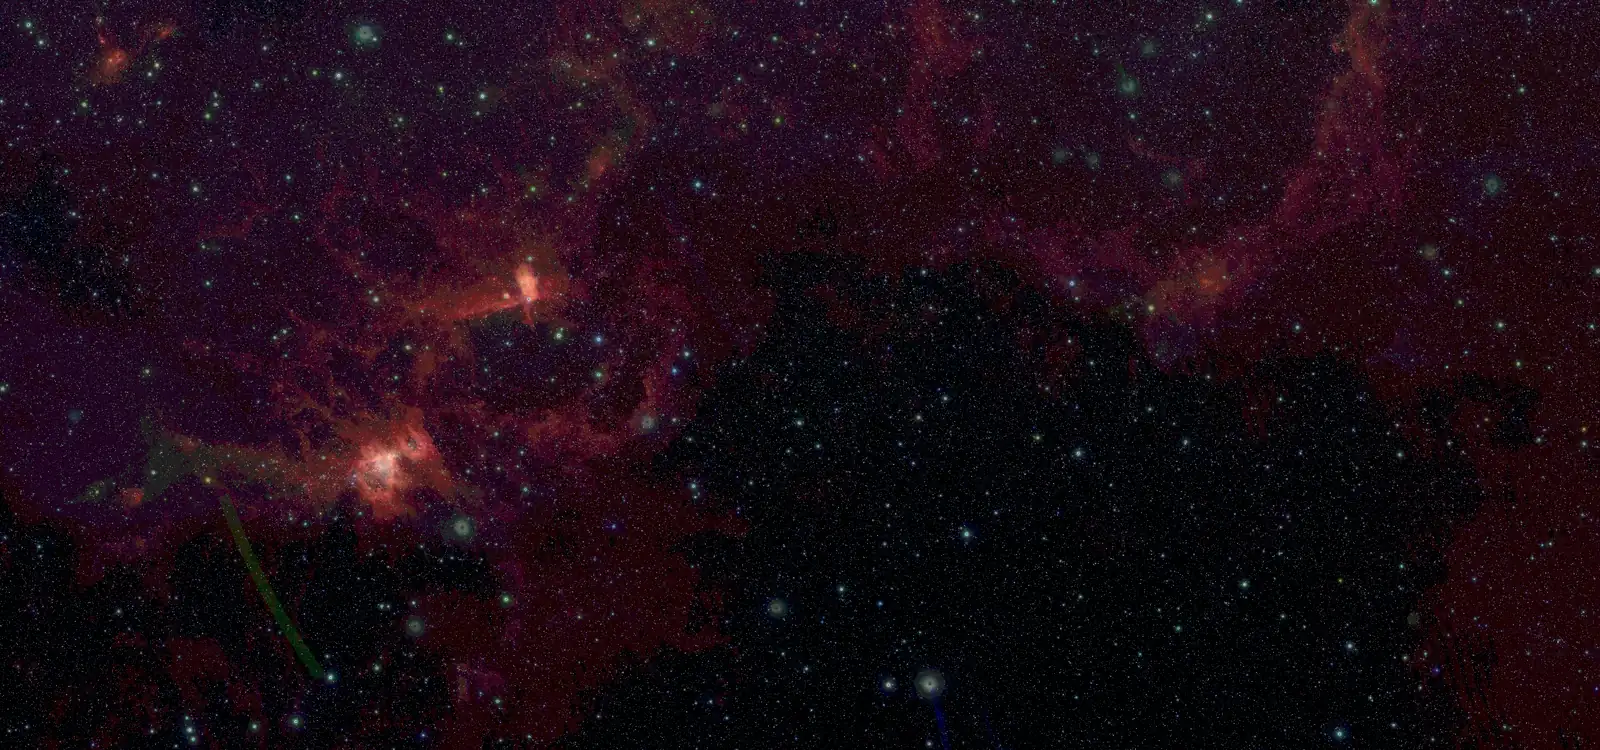
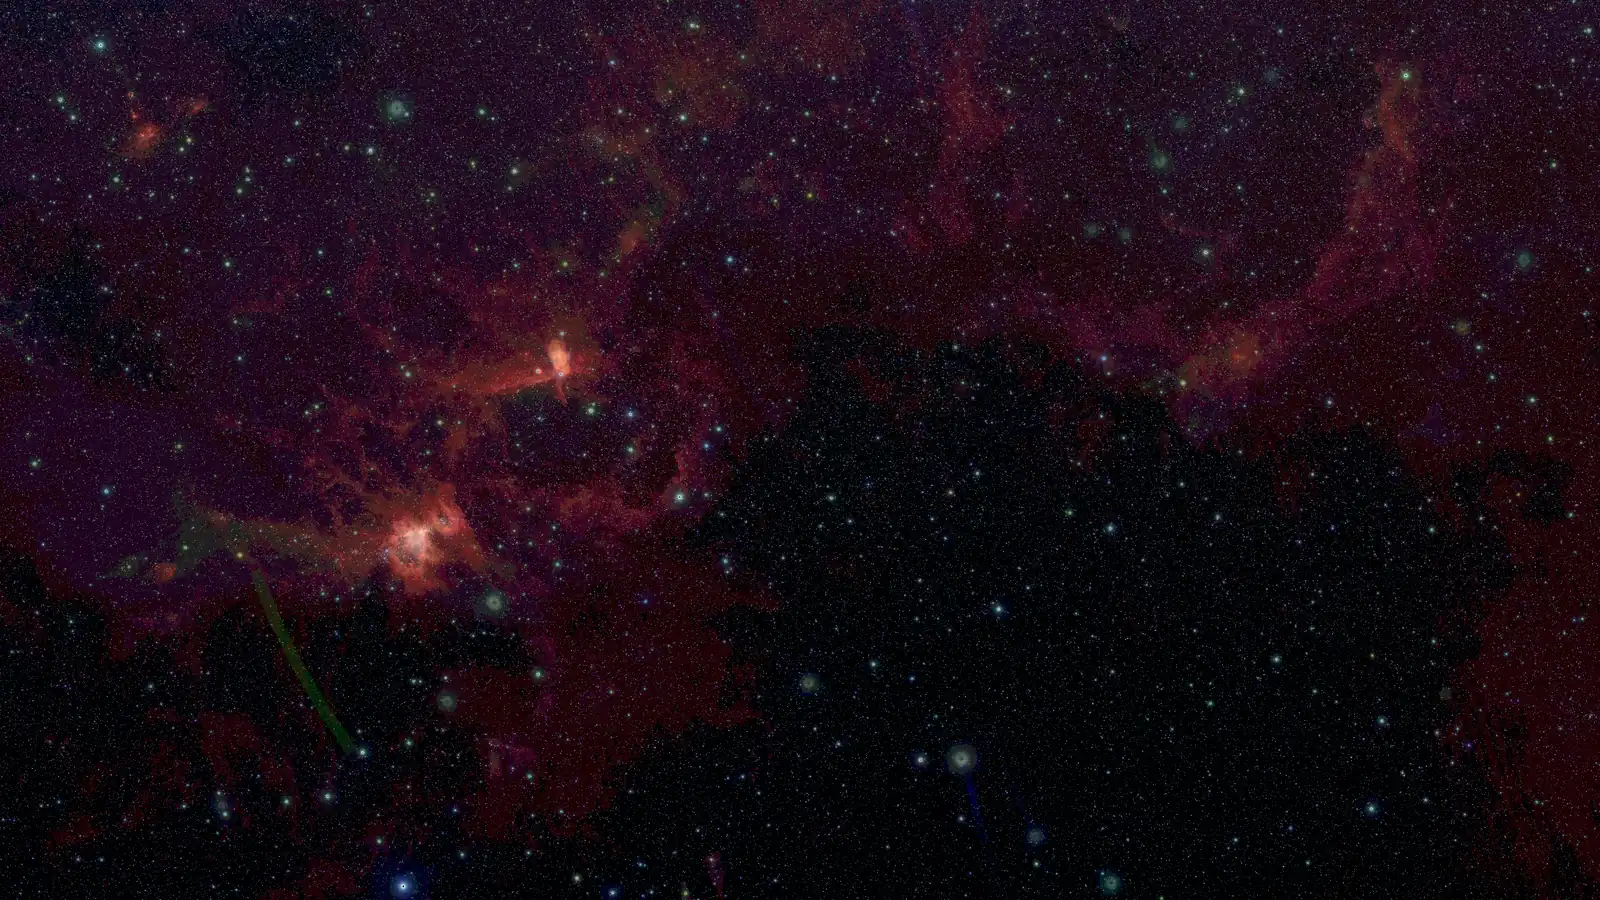
First page: the real sky behind the whole page, changing as it is read
The photograph was behind the first screen only; below it the page was
black. It is now one layer fixed behind the page, and every part lays a
veil of the page colour over it (--veil, 72 %), so the words keep their
contrast. The sky changes with the part being read: the Milky Way, Rho
Ophiuchi from the tour on, Orion from "Open source" on; the two later
pictures are fetched when their part is near. The last screen draws the
veil back instead of carrying a picture of its own.

Rho Ophiuchi and Orion are cut again at 1600 x 900 for this. The team list
gets the workplaces of two more members.

diff --git a/web/landing.css b/web/landing.css
@@ -11,6 +11,7 @@
 @font-face{font-family:"Geist Mono";src:url(/static/fonts/GeistMono.woff2) format("woff2");font-weight:400 500;font-style:normal;font-display:swap}
 
 :root{
+  --veil:72%;
   --paper:oklch(9% 0.012 290); --paper-2:oklch(12.5% 0.014 290); --paper-3:oklch(6.5% 0.010 290); --lift:oklch(16% 0.017 290);
   --ink:oklch(94% 0.010 80); --ink-2:oklch(84% 0.011 80); --muted:oklch(68% 0.012 80); --muted-2:oklch(50% 0.010 80);
   --rule:oklch(25% 0.016 290); --rule-2:oklch(16% 0.013 290);
@@ -66,11 +67,15 @@ a:hover>.arr,.card.link:hover .arr{transform:translateX(4px)}
 
 /* ------------------------------------------------------------------ hero */
 .hero{position:relative;min-height:100vh;min-height:100svh;display:flex;flex-direction:column;overflow:hidden;border-bottom:1px solid var(--rule)}
-/* The sky behind the first screen is a photograph: the Milky Way cut from the SPHEREx all-sky map
-   (scripts/landing_sky.py). The veil over it keeps the left half, where the words are, at the contrast
-   of the rest of the page and lets the galaxy show on the right and along the bottom. */
-.heroimg{position:absolute;inset:0;overflow:hidden}
-.heroimg img{width:100%;height:100%;object-fit:cover;object-position:70% 62%;transform:translate3d(calc(var(--px,0) * -16px),calc(var(--py,0) * -10px),0) scale(1.06);transition:transform 1.2s var(--out);animation:skyin 1.6s var(--out) both}
+/* The sky behind the page is a photograph, and it stays where it is while the page moves over it: the
+   Milky Way, then Rho Ophiuchi from the tour on, then Orion from "Open source" on (landing.js changes
+   them), all cut from the SPHEREx all-sky map (scripts/landing_sky.py). Each part of the page lays a
+   veil of the page colour over it (--veil); the first and the last screen let it through. */
+.pagesky{position:fixed;inset:0 0 auto;height:100vh;height:100lvh;z-index:-1;overflow:hidden;pointer-events:none;animation:skyin 1.6s var(--out) both}
+.pagesky img{position:absolute;inset:0;width:100%;height:100%;object-fit:cover;object-position:70% 62%;opacity:0;transform:translate3d(calc(var(--px,0) * -16px),calc(var(--py,0) * -10px),0) scale(1.06);transition:transform 1.2s var(--out),opacity 1.8s ease}
+.pagesky img.on{opacity:1}
+.pagesky .rho{object-position:58% 45%}
+.pagesky .orion{object-position:30% 55%}
 @keyframes skyin{from{opacity:0}to{opacity:1}}
 .glow{position:absolute;inset:0;pointer-events:none;background:
   linear-gradient(90deg,color-mix(in oklab,var(--paper) 70%,transparent) 0%,color-mix(in oklab,var(--paper) 52%,transparent) 34%,color-mix(in oklab,var(--paper) 12%,transparent) 64%,transparent 100%),
@@ -155,7 +160,9 @@ h1{margin-top:22px;font-size:clamp(46px,min(7.3vw,12.5vh),132px);line-height:.93
 /* ------------------------------------------------------------------ sections */
 section{position:relative}
 .found,.tour,.how,.api,.open,.team{padding-block:clamp(84px,11vw,168px)}
-.tour,.api,.team{background:linear-gradient(180deg,var(--paper-3),var(--paper) 60%);border-block:1px solid var(--rule)}
+.numbers,.film,.found,.how,.open,.foot{background:color-mix(in oklab,var(--paper) var(--veil),transparent)}
+.tour,.api,.team{background:linear-gradient(180deg,color-mix(in oklab,var(--paper-3) calc(var(--veil) + 6%),transparent),color-mix(in oklab,var(--paper) var(--veil),transparent) 60%);border-block:1px solid var(--rule)}
+.last{background:linear-gradient(180deg,color-mix(in oklab,var(--paper) var(--veil),transparent),color-mix(in oklab,var(--paper) 12%,transparent) 30%,color-mix(in oklab,var(--paper) 12%,transparent) 72%,color-mix(in oklab,var(--paper) var(--veil),transparent))}
 .sechead{max-width:900px}
 .kicker{display:flex;align-items:center;gap:12px;font:500 12.5px/1 var(--measure);letter-spacing:.09em;text-transform:uppercase;color:var(--muted)}
 .kicker span{color:var(--violet)}
@@ -333,7 +340,6 @@ input[type=range]::-moz-range-thumb{width:11px;height:21px;background:var(--gold
 
 /* ------------------------------------------------------------------ last call */
 .last{padding-block:clamp(110px,16vw,230px);text-align:center;overflow:hidden}
-.lastbg{position:absolute;inset:0;width:100%;height:100%;object-fit:cover;object-position:30% 55%;opacity:.9;-webkit-mask-image:linear-gradient(180deg,transparent,#000 22%,#000 74%,transparent);mask-image:linear-gradient(180deg,transparent,#000 22%,#000 74%,transparent)}
 .last .wrap{position:relative}
 .last h2{margin:0;font-size:clamp(44px,7.6vw,118px);letter-spacing:-.05em;line-height:.95;text-shadow:0 0 60px var(--paper)}
 .last p{margin-top:22px;font-size:clamp(17px,1.5vw,21px);color:var(--ink-2);text-shadow:0 0 20px var(--paper),0 0 40px var(--paper)}
@@ -379,7 +385,7 @@ input[type=range]::-moz-range-thumb{width:11px;height:21px;background:var(--gold
   .num:nth-child(5){grid-column:1/-1}
   .feature,.feature.flip,.apigrid,.teamgrid,.teamtop,.filmgrid{grid-template-columns:minmax(0,1fr)}
   /* the words and the picture share the column: the veil is even, the galaxy sits low */
-  .heroimg img{object-position:60% 100%}
+  .pagesky picture img{object-position:60% 100%}
   .glow{background:linear-gradient(180deg,color-mix(in oklab,var(--paper) 66%,transparent) 0%,color-mix(in oklab,var(--paper) 52%,transparent) 40%,color-mix(in oklab,var(--paper) 14%,transparent) 76%,color-mix(in oklab,var(--paper) 60%,transparent) 100%)}
   .skycredit{align-self:flex-start;max-width:34em}
   .feature.flip .shot{order:0}

diff --git a/web/landing.html b/web/landing.html
@@ -23,11 +23,19 @@
 <link rel="apple-touch-icon" href="/static/apple-touch-icon.png?v=72">
 <link rel="preload" href="/static/fonts/HankenGrotesk.woff2" as="font" type="font/woff2" crossorigin>
 <link rel="preload" href="/static/fonts/GeistMono.woff2" as="font" type="font/woff2" crossorigin>
-<link rel="stylesheet" href="/static/landing.css?v=4">
-<script src="/static/landing.js?v=4" defer></script>
+<link rel="stylesheet" href="/static/landing.css?v=5">
+<script src="/static/landing.js?v=5" defer></script>
 </head>
 <body>
 <a class="skip" href="#found">Skip to what it found</a>
+<div class="pagesky" id="pagesky" aria-hidden="true">
+  <picture>
+    <source media="(max-width: 700px)" srcset="/static/landing/sky-milky-way-m.webp" width="800" height="1440">
+    <img class="on" src="/static/landing/sky-milky-way.webp" width="2000" height="1125" alt="" fetchpriority="high" decoding="async">
+  </picture>
+  <img class="rho" data-src="/static/landing/sky-rho-oph.webp" data-from="tour" width="1600" height="900" alt="" decoding="async">
+  <img class="orion" data-src="/static/landing/sky-orion.webp" data-from="open" width="1600" height="900" alt="" decoding="async">
+</div>
 <div class="progress" aria-hidden="true"><i id="progress"></i></div>
 
 <header class="nav" id="nav">
@@ -50,10 +58,6 @@
 <main>
 <!-- ================================================================== hero -->
 <section class="hero" id="top">
-  <picture class="heroimg" aria-hidden="true">
-    <source media="(max-width: 700px)" srcset="/static/landing/sky-milky-way-m.webp" width="800" height="1440">
-    <img id="heroimg" src="/static/landing/sky-milky-way.webp" width="2000" height="1125" alt="" fetchpriority="high" decoding="async">
-  </picture>
   <div class="glow" aria-hidden="true"></div>
   <div class="wrap herogrid">
     <div class="herotext">
@@ -95,7 +99,7 @@
       </figcaption>
     </figure>
   </div>
-  <p class="skycredit mono">Behind this screen: the Milky Way as SPHEREx sees it, at 1.25, 2.19 and 3.29 µm <b>·</b> NASA/JPL-Caltech/IPAC</p>
+  <p class="skycredit mono">Behind this page: the Milky Way as SPHEREx sees it, at 1.25, 2.19 and 3.29 µm <b>·</b> NASA/JPL-Caltech/IPAC</p>
 
   <!-- what the blind search has reported so far: all of them known bodies -->
   <div class="ticker" aria-label="Moving objects the blind search has found, each a known body">
@@ -140,7 +144,7 @@
          the player in its place. Without the script the link opens the video on YouTube. -->
     <div class="player reveal" id="player">
       <a class="poster" id="poster" href="https://www.youtube.com/watch?v=Nhfgcw2geB4" target="_blank" rel="noopener" data-video="Nhfgcw2geB4" aria-label="Play the video: Vanilla Sphere, a tool for SPHEREx data exploration">
-        <img src="/static/landing/sky-rho-oph.webp" width="1120" height="630" loading="lazy" alt="">
+        <img src="/static/landing/sky-rho-oph.webp" width="1600" height="900" loading="lazy" alt="">
         <span class="playbtn"><svg class="tri" viewBox="0 0 16 16" aria-hidden="true"><path d="M4 2.500 13 8l-9 5.500z"/></svg></span>
         <span class="postertitle mono"><b>VANILLA SPHERE</b> A TOOL FOR SPHEREx DATA EXPLORATION</span>
         <span class="postersite mono">YouTube</span>
@@ -403,8 +407,8 @@
       <p>Team Vanilla Sphere, at the Hanoi local event of the 2026 NASA Space Apps Challenge.</p>
     </header>
     <ol class="people reveal">
-      <li><span class="mono">01</span><b>Kim Duc Minh</b><i>Lead, architecture</i></li>
-      <li><span class="mono">02</span><b>Van Thanh Duy</b><i>Data pipeline, testing</i></li>
+      <li><span class="mono">01</span><b>Kim Duc Minh</b><i>Lead, architecture</i><small>VinSmart Future</small></li>
+      <li><span class="mono">02</span><b>Van Thanh Duy</b><i>Data pipeline, testing</i><small>Military Commercial Joint Stock Bank (MB)</small></li>
       <li><span class="mono">03</span><b>Doan Duy Thanh</b><i>Data analysis</i><small>University of Science and Technology of Hanoi (USTH)</small></li>
       <li><span class="mono">04</span><b>Nguyen Ha Trang</b><i>Science</i><small>Hanoi University of Science and Technology (HUST)</small></li>
       <li><span class="mono">05</span><b>Pham Minh Tuan</b><i>Science</i></li>
@@ -434,7 +438,6 @@
 
 <!-- ================================================================== last call -->
 <section class="last">
-  <img class="lastbg" src="/static/landing/sky-orion.webp" width="1600" height="750" loading="lazy" alt="" aria-hidden="true">
   <div class="wrap">
     <h2 class="reveal">Pick a spot in the sky<span class="blinkmark" aria-hidden="true"><i></i><i></i></span></h2>
     <p class="reveal">The whole infrared sky, 102 colours deep, a click away.</p>

diff --git a/web/landing.js b/web/landing.js
@@ -59,19 +59,45 @@ if ("IntersectionObserver" in window) {
   for (const el of document.querySelectorAll(".reveal")) seen.observe(el);
 } else for (const el of document.querySelectorAll(".reveal")) el.classList.add("in");
 
-/* ------------------------------------------------------------------ the sky behind the first screen
-   A photograph: the Milky Way cut from the SPHEREx all-sky map. Nothing is drawn onto it. It gives way
-   a little to the pointer (the two variables are read by landing.css). */
+/* ------------------------------------------------------------------ the sky behind the page
+   Photographs cut from the SPHEREx all-sky map; nothing is drawn onto them. The sky stays in place
+   behind the page and changes with the part being read: the Milky Way first, then each picture that
+   names a section (data-from) once that section is two fifths up the window. A picture is fetched when
+   its section is about two windows away. It gives way a little to the pointer (the two variables are
+   read by landing.css). */
 (() => {
-  const img = $("heroimg");
-  if (!img || still) return;
-  let wait = 0;
+  const sky = $("pagesky");
+  if (!sky) return;
+  const layers = [...sky.querySelectorAll("img")];
+  const starts = layers.map((img) => $(img.dataset.from || ""));
+  let shown = 0, wait = 0;
+  const pick = () => {
+    wait = 0;
+    let want = 0;
+    starts.forEach((el, i) => {
+      if (!el) return;
+      const top = el.getBoundingClientRect().top;
+      if (top < innerHeight * 2.5 && !layers[i].getAttribute("src")) layers[i].src = layers[i].dataset.src;
+      if (top < innerHeight * 0.6) want = i;
+    });
+    if (want === shown || !layers[want].complete || !layers[want].naturalWidth) return;
+    layers[shown].classList.remove("on");
+    layers[want].classList.add("on");
+    shown = want;
+  };
+  const ask = () => { if (!wait) wait = requestAnimationFrame(pick); };
+  for (const img of layers) img.addEventListener("load", ask);
+  addEventListener("scroll", ask, {passive: true});
+  addEventListener("resize", ask, {passive: true});
+  pick();
+  if (still) return;
+  let moving = 0;
   addEventListener("pointermove", (ev) => {
-    if (ev.pointerType !== "mouse" || wait) return;
-    wait = requestAnimationFrame(() => {
-      wait = 0;
-      img.style.setProperty("--px", (ev.clientX / innerWidth - 0.5).toFixed(3));
-      img.style.setProperty("--py", (ev.clientY / innerHeight - 0.5).toFixed(3));
+    if (ev.pointerType !== "mouse" || moving) return;
+    moving = requestAnimationFrame(() => {
+      moving = 0;
+      sky.style.setProperty("--px", (ev.clientX / innerWidth - 0.5).toFixed(3));
+      sky.style.setProperty("--py", (ev.clientY / innerHeight - 0.5).toFixed(3));
     });
   }, {passive: true});
 })();

diff --git a/tests/test_landing.py b/tests/test_landing.py
@@ -134,14 +134,27 @@ def test_the_team_is_named_with_what_each_one_did():
 
 
 def test_the_sky_of_the_first_page_is_a_photograph():
-    """Behind the first screen, the video and the last screen is the sky as
-    SPHEREx sees it, not a drawing: files of ours, credited on the page."""
-    for name, size in (("sky-milky-way", 400_000), ("sky-milky-way-m", 150_000), ("sky-orion", 250_000), ("sky-rho-oph", 200_000)):
+    """Behind the page is the sky as SPHEREx sees it, not a drawing: files of
+    ours, credited on the page. It is one layer fixed behind everything, so
+    it is there for the whole page and not only for the first screen."""
+    for name, size in (("sky-milky-way", 400_000), ("sky-milky-way-m", 150_000), ("sky-orion", 250_000), ("sky-rho-oph", 300_000)):
         assert f"/static/landing/{name}.webp" in PAGE, name
         assert 20_000 < (WEB / "landing" / f"{name}.webp").stat().st_size < size, name
     assert "<canvas class=\"sky\"" not in PAGE and "NASA/JPL-Caltech/IPAC" in PAGE
     assert "1.25, 2.19 and 3.29" in PAGE  # the three colours, as scripts/landing_sky.py takes them
     assert "FRAMES = (62, 46, 22)" in (WEB.parent / "scripts" / "landing_sky.py").read_text()
+    sky = re.search(r'<div class="pagesky" id="pagesky"[^>]*>(.*?)</div>', PAGE, re.S)
+    assert sky and sky.start() < PAGE.index("<main>")
+    css = (WEB / "landing.css").read_text()
+    assert re.search(r"\.pagesky\{position:fixed;[^}]*z-index:-1", css)
+    # one sky is in the page as it comes; the others wait for their part of the page, which must exist
+    assert len(re.findall(r"<img[^>]* src=", sky.group(1))) == 1
+    later = re.findall(r'<img[^>]* data-src="/static/landing/([\w.-]+)" data-from="(\w+)"', sky.group(1))
+    assert len(later) == 2
+    for name, part in later:
+        assert (WEB / "landing" / name).is_file() and f'id="{part}"' in PAGE, (name, part)
+    # every part of the page between the first and the last screen lays the same veil over the sky
+    assert re.search(r"--veil:\d+%", css) and css.count("var(--veil)") >= 4
 
 
 def test_the_viewer_knows_its_new_address():

diff --git a/scripts/landing_sky.py b/scripts/landing_sky.py
@@ -1,4 +1,4 @@
-"""The photographs of the sky on the first page (web/landing/sky-*.webp).
+"""The photographs of the sky behind the first page (web/landing/sky-*.webp).
 
 They are cut from the SPHEREx DR1 all-sky map, which NASA/IPAC IRSA publishes
 as a HiPS cube: the sky in HEALPix tiles of 512 x 512 pixels, one PNG for each
@@ -11,8 +11,8 @@ Credit: NASA/JPL-Caltech/IPAC. The four pictures of the page:
 
     python scripts/landing_sky.py web/landing/sky-milky-way.webp   --l 0 --b 0 --fov 70 --size 2000x1125 --order 3 --rot 16 --at 0.70,0.72 --quality 54 --black 8
     python scripts/landing_sky.py web/landing/sky-milky-way-m.webp --l 0 --b 0 --fov 44 --size 800x1440  --order 3 --rot 32 --at 0.60,0.80 --quality 56 --black 8
-    python scripts/landing_sky.py web/landing/sky-orion.webp       --l 209.0 --b -19.4 --fov 27 --size 1600x750 --order 4 --at 0.24,0.62 --quality 58 --black 4
-    python scripts/landing_sky.py web/landing/sky-rho-oph.webp     --l 353.2 --b 16.6  --fov 20 --size 1120x630 --order 4 --at 0.60,0.42 --quality 62 --black 6
+    python scripts/landing_sky.py web/landing/sky-orion.webp       --l 209.0 --b -19.4 --fov 27 --size 1600x900 --order 4 --at 0.26,0.60 --quality 54 --black 4
+    python scripts/landing_sky.py web/landing/sky-rho-oph.webp     --l 353.2 --b 16.6  --fov 20 --size 1600x900 --order 4 --at 0.60,0.42 --quality 54 --black 6
 
 ``--l --b`` is a point of the sky in Galactic degrees, ``--at`` where it lands
 in the picture (fractions of width and height), ``--fov`` the width of the

diff --git a/docs/viewer.md b/docs/viewer.md
@@ -553,22 +553,24 @@ cannot break the other.
 
 | Part | What it shows |
 | --- | --- |
-| First screen | Behind it a photograph: the Milky Way cut from the SPHEREx all-sky map (see below). On it the claim, the buttons, the second prize, and six real frames of Barnard's Star blinked one after the other (`landing/barnard-0..5.webp`, the answers of `/api/frame.png?target=barnard&fov=8&group=visit&i=0..5&size=640`) |
+| The sky behind the page | A photograph that stays in place while the page moves over it, and changes with the part being read: the Milky Way, then Rho Ophiuchi from the tour on, then Orion from "Open source" on, all cut from the SPHEREx all-sky map (see below). The first and the last screen show it nearly bare; every other part lays a veil of the page colour over it |
+| First screen | The claim, the buttons, the second prize, and six real frames of Barnard's Star blinked one after the other (`landing/barnard-0..5.webp`, the answers of `/api/frame.png?target=barnard&fov=8&group=visit&i=0..5&size=640`) |
 | Video | The team's video on YouTube (`@VanillaSphere`). The picture with the play button is ours; the player (`www.youtube-nocookie.com`, the one frame `guard.CSP` allows) replaces it only when play is pressed, so YouTube hears of a visitor only then. Without the script the picture is a link to the video |
 | Numbers, "What it found" | The results of the README, each with what it was checked against and a link to its live view |
 | Shift-and-stack | A drawing with simulated noise, labelled as such: a source too faint for one exposure, added along its path |
 | Tour | Six screenshots of the live site; on a wide screen they share one frame that stays in place while the text scrolls |
 | How it works, API, open source | Text, with links to `/docs`, the repository and its documentation |
 | The team, credits | The five members of the team, one to a line: name, what each one did, and in small letters where each one works or studies. Then the second prize, and where the data and the pictures come from |
-| Last screen | The call to open the sky map, over the Orion region of the same all-sky map |
+| Last screen | The call to open the sky map, with the veil drawn back from the sky |
 
 Rules it keeps:
 
 - It asks the server for nothing but its own files: no `/api/` call is made
   when the page opens, so a visitor who only reads it costs the engine
-  nothing. The pictures are files of `web/landing/` (WebP, about 1.5 MB in
+  nothing. The pictures are files of `web/landing/` (WebP, about 1.7 MB in
   all; the sky behind the first screen is fetched at once, 0.30 MB on a
-  wide screen and 0.11 MB on a phone, the rest as it is reached).
+  wide screen and 0.11 MB on a phone, the rest as it is reached: the two
+  other skies when their part of the page is about two windows away).
 - Nothing comes from another site before the visitor asks for it (the video
   player, on play), and there is no inline script: the page is held to the
   same policy as the viewer (`guard.CSP`).
@@ -578,7 +580,7 @@ Rules it keeps:
   written without their marks, as in the team's English material ("Hanoi",
   "Kim Duc Minh").
 - It has its own version number on its two assets (`landing.css?v=N`,
-  `landing.js?v=N`, now 4): raise it when either changes.
+  `landing.js?v=N`, now 5): raise it when either changes.
 - `tests/test_landing.py` holds it to these rules and keeps the list of view
   parameters of `main.py`, `landing.js` and the viewer the same.
 
@@ -596,9 +598,15 @@ commands. Two things are changed in the pixels and nothing else: the black
 point is raised a little, and what one colour alone shows far from its
 surroundings (the trail of a planet that moved between the exposures of
 different colours, saturated pixels at the Galactic centre) is filled from
-around it. Nothing is drawn onto the photograph; the veil over it
-(`.glow` in `landing.css`) keeps the words at the contrast of the rest of
-the page.
+around it. Nothing is drawn onto the photograph.
+
+The sky is one layer fixed behind the page (`.pagesky`), not a background
+of each part, so it does not move with the text. `landing.js` shows the
+picture whose part of the page (`data-from`) has come two fifths up the
+window, with a slow fade; without the script the Milky Way stays for the
+whole page. What keeps the words readable is the veil each part lays over
+it: `--veil` in `landing.css` (72 % of the page colour), `.glow` on the
+first screen. Raise `--veil` and the sky dims everywhere at once.
 
 ## Conventions for changes
 
